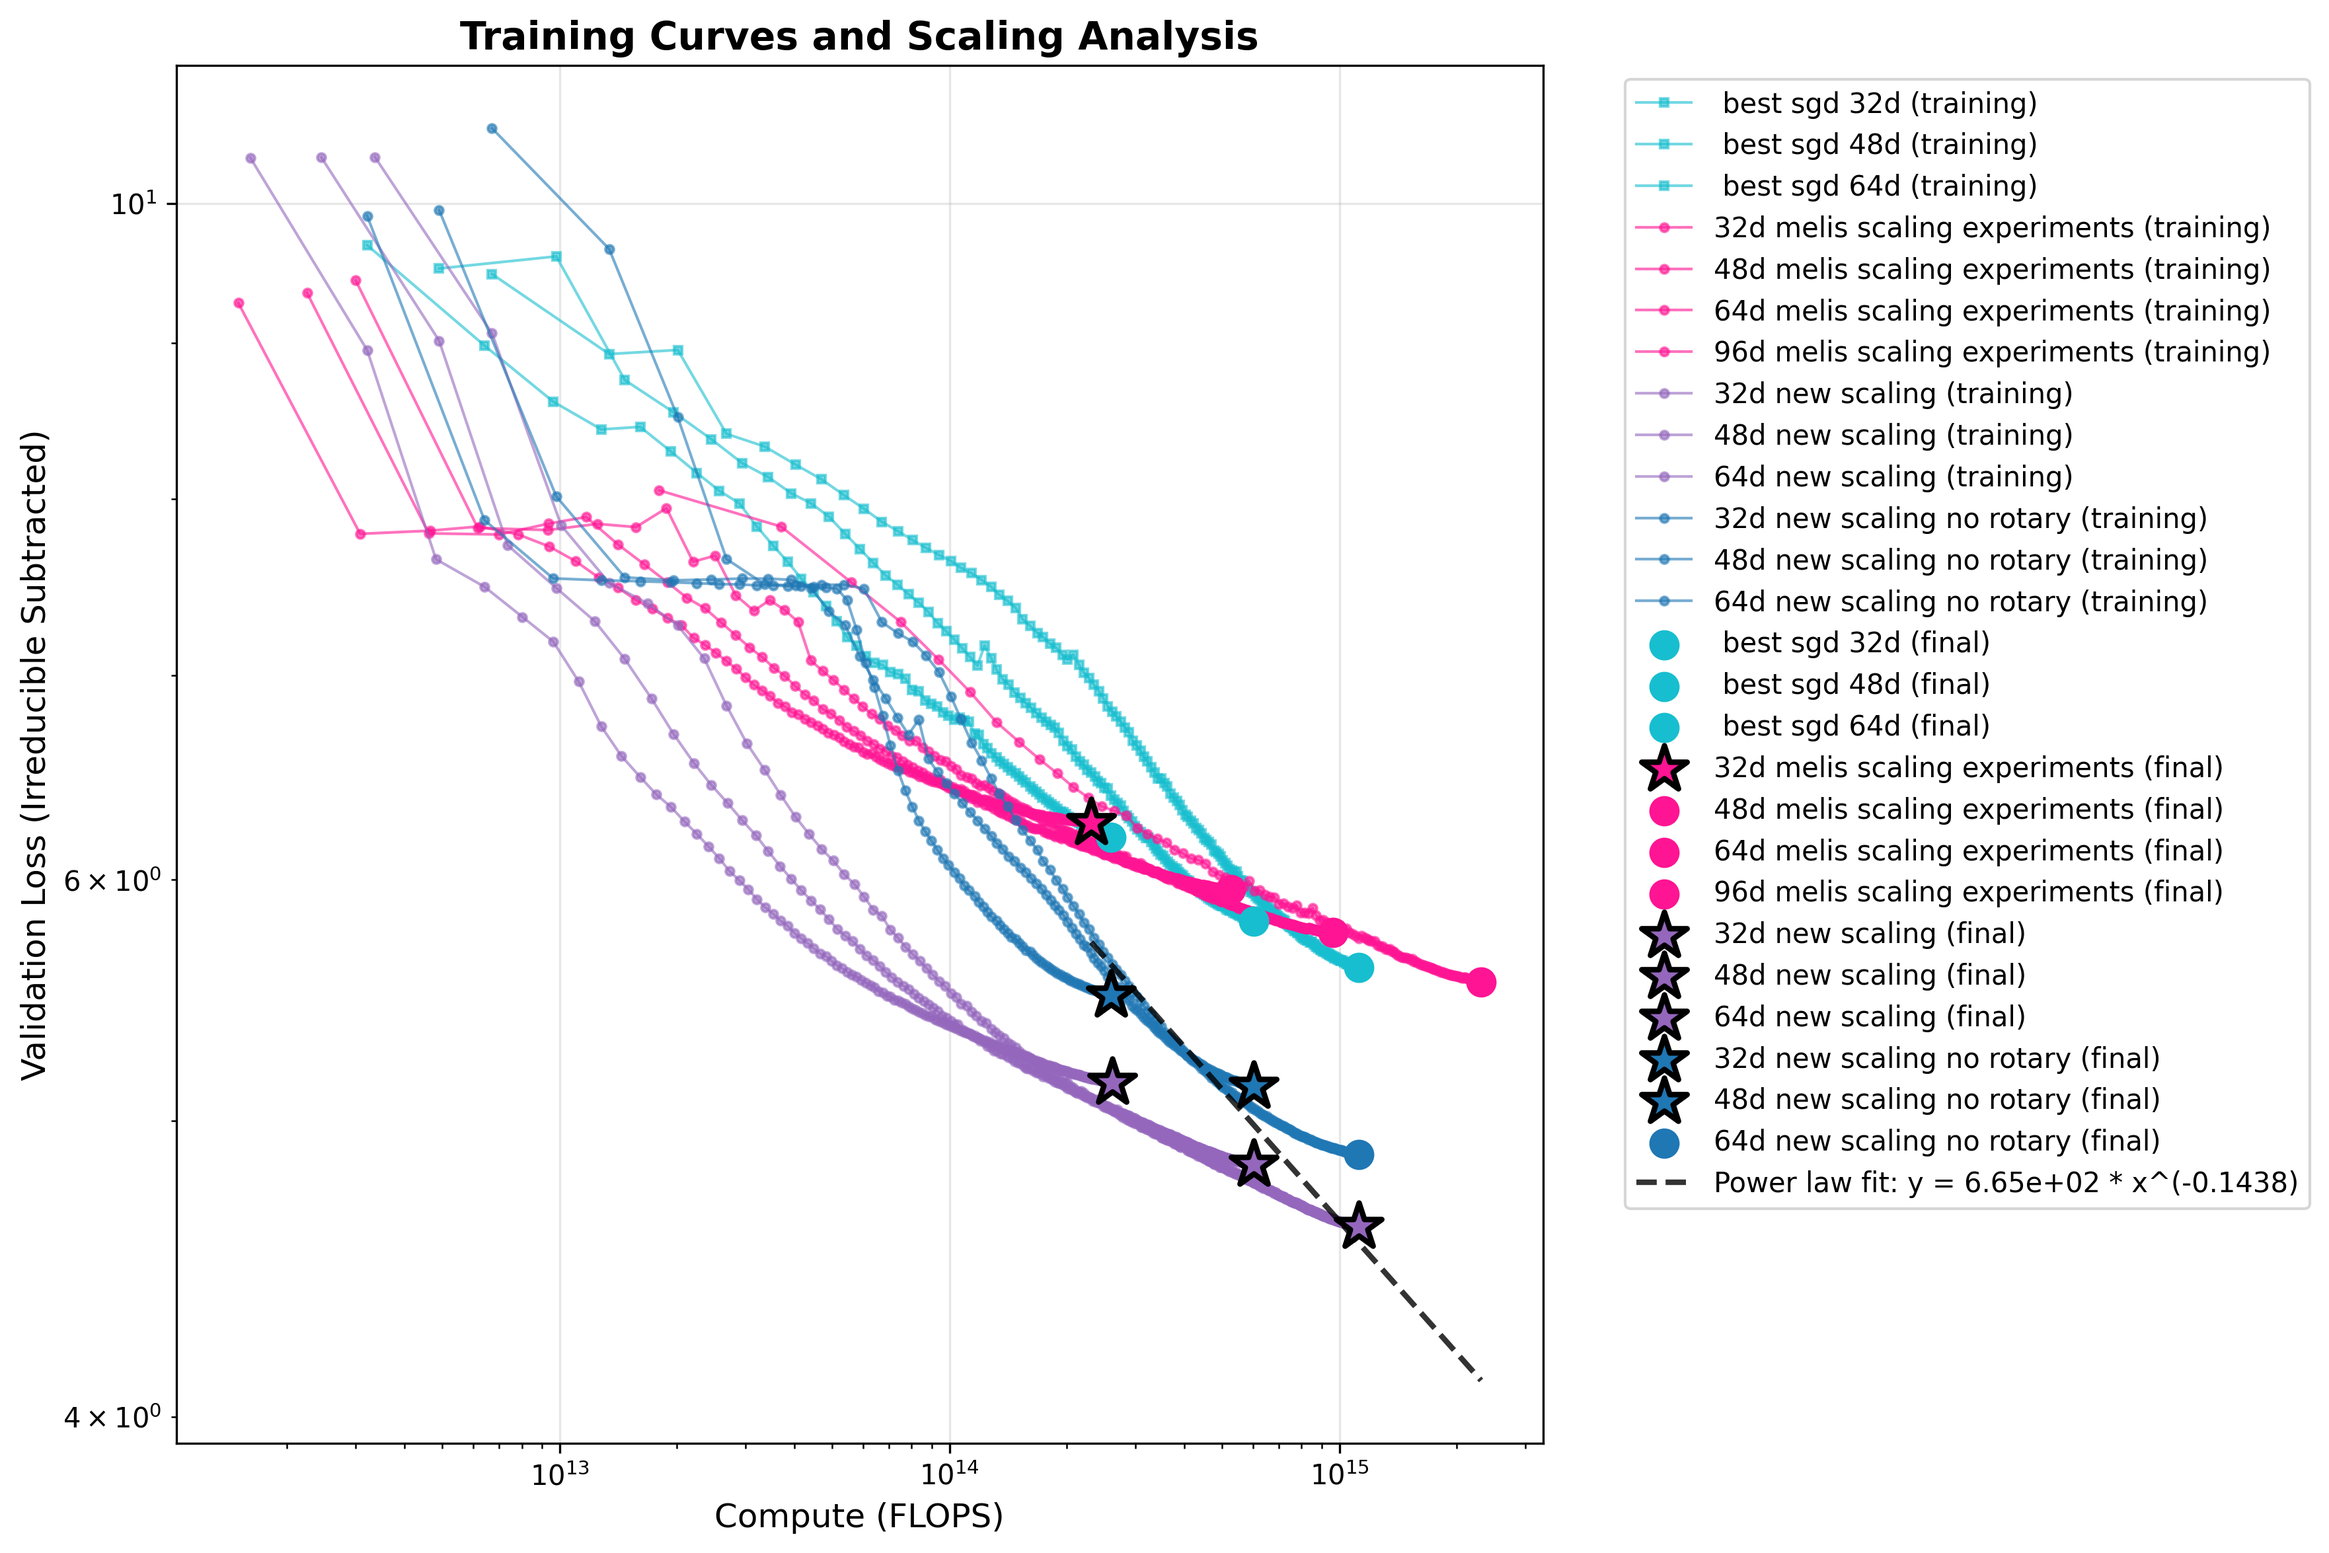
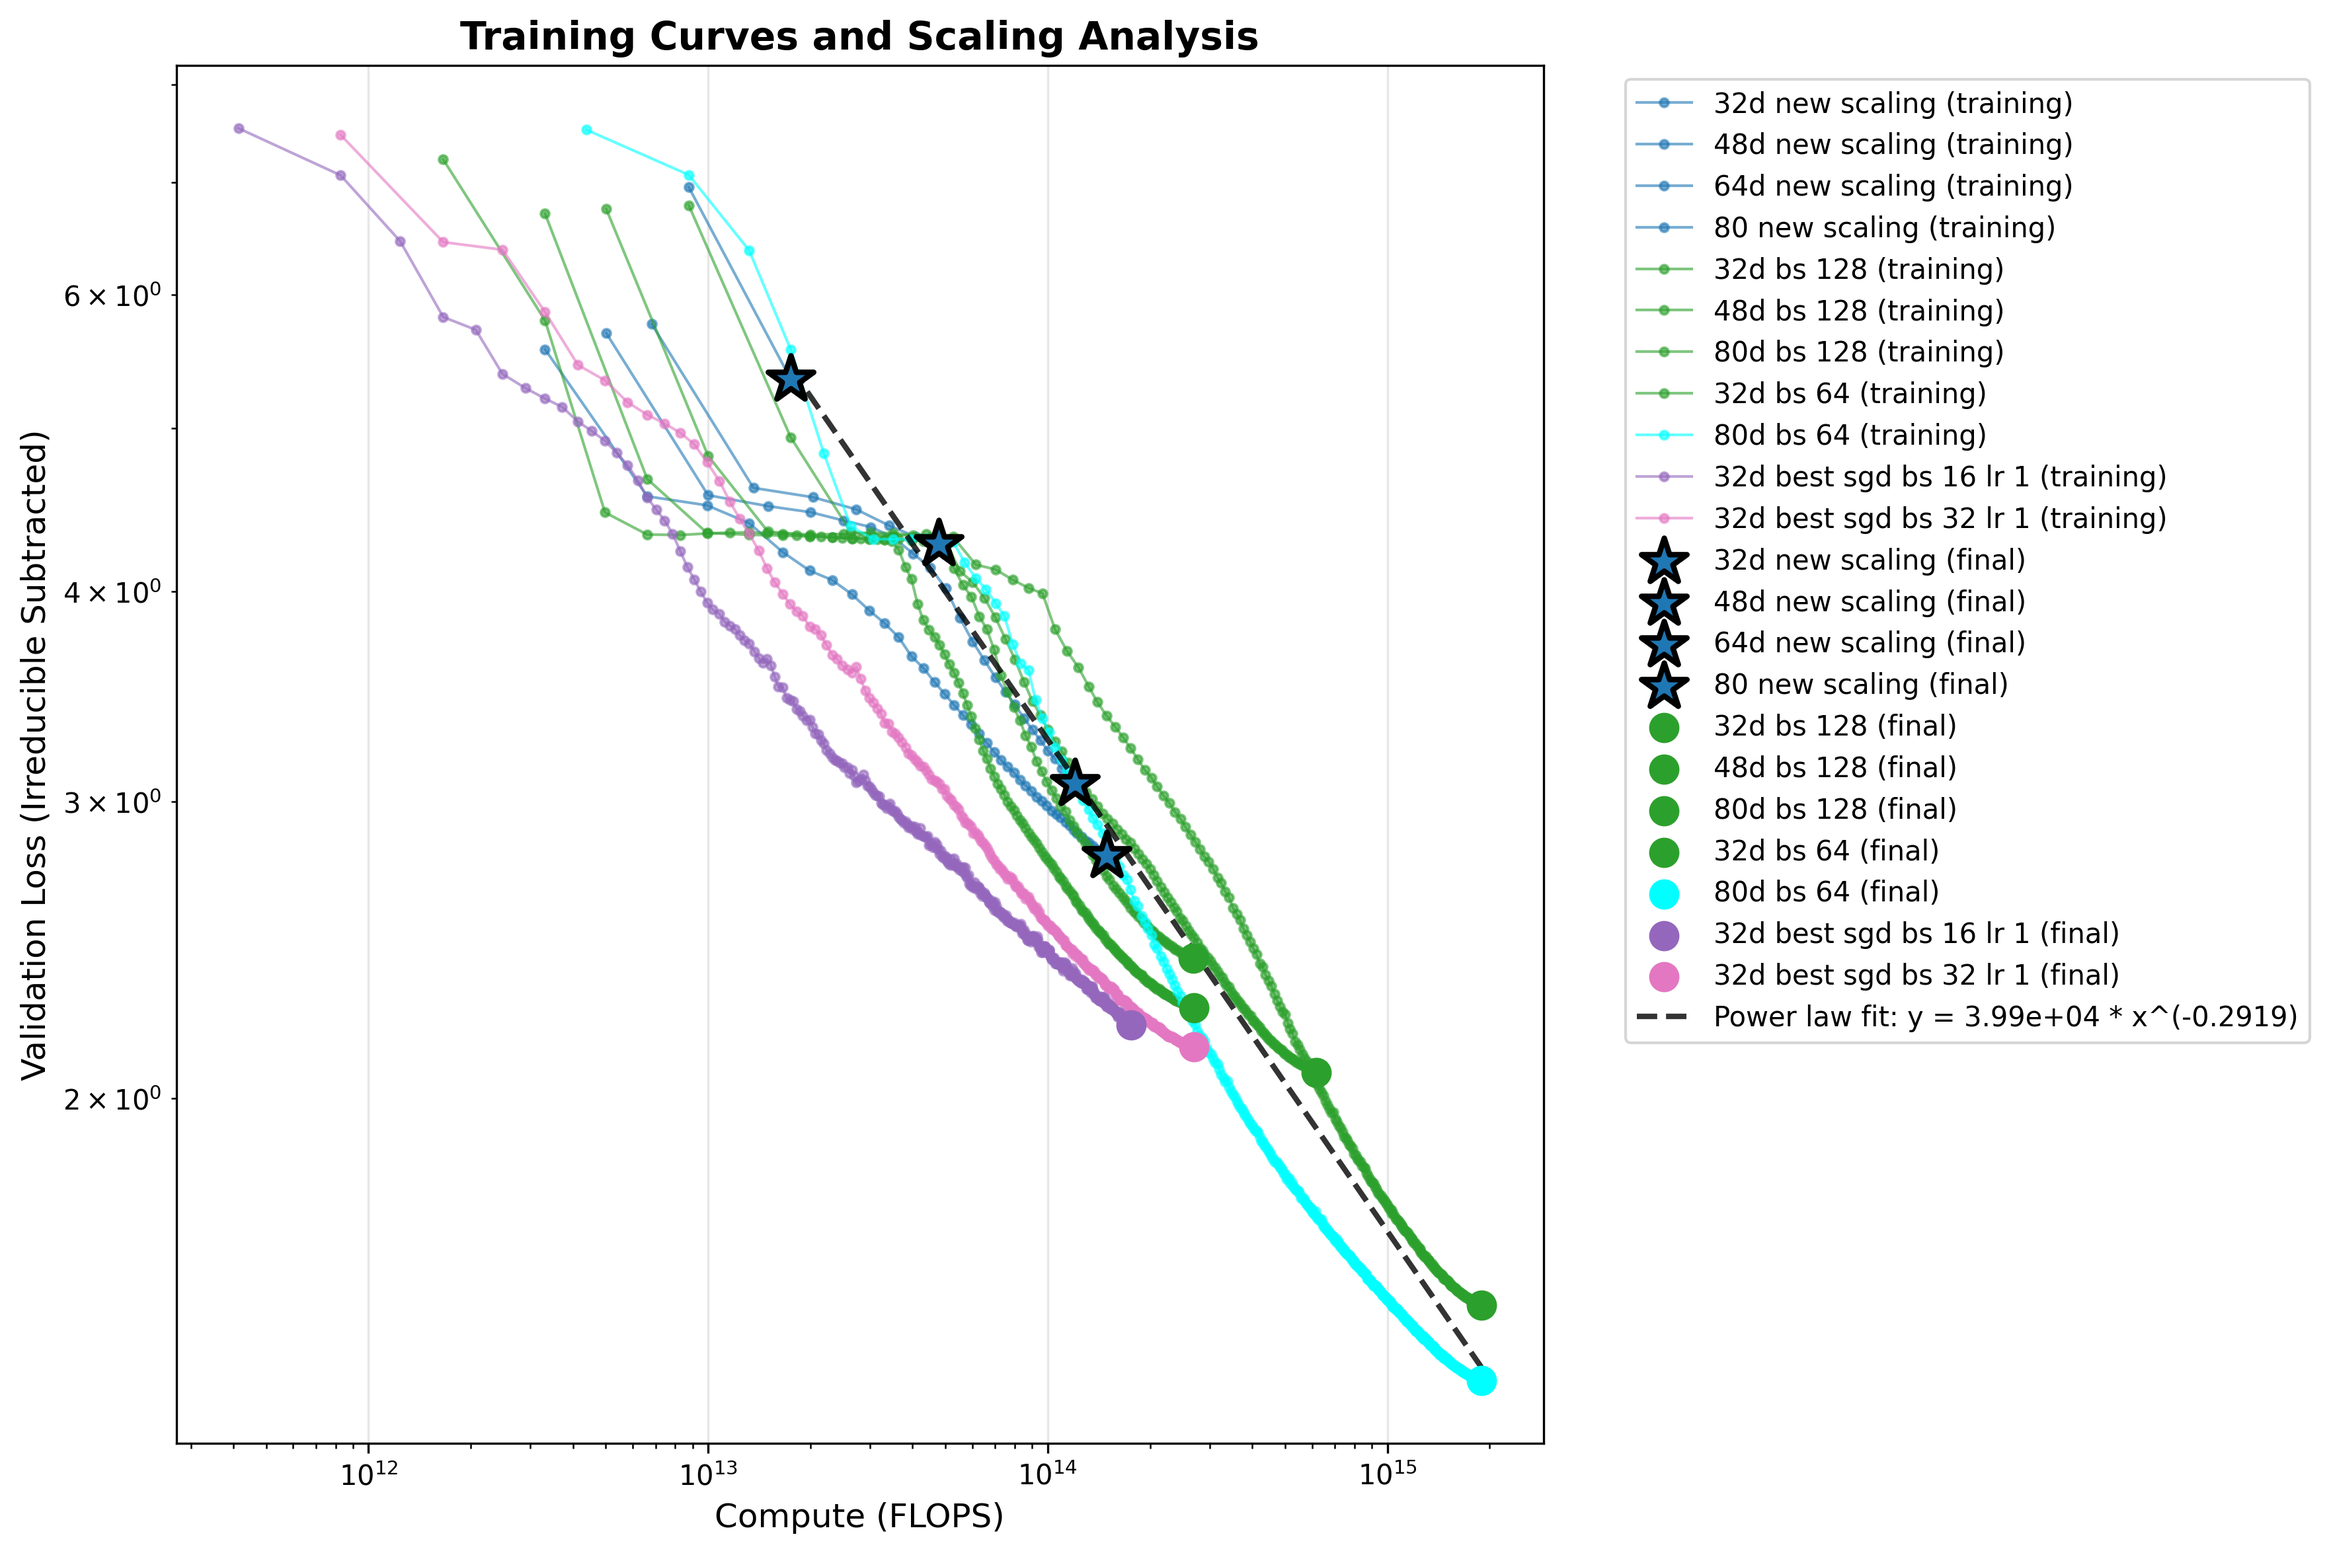
working version seems totatlly fine

diff --git a/LSTM_model/lstm_experiments.py b/LSTM_model/lstm_experiments.py
@@ -99,144 +99,9 @@ CONFIG = get_lstm_base_config()
 # ====================================================================
 
 
-def subset_experiments(experiment_list, wanted_labels):
-    """Return only the sub-experiments whose 'label' is in wanted_labels,
-    keeping each group's original name unchanged."""
-    result = []
-    for exp in experiment_list:
-        picked = [se for se in exp["subexperiments"] if se["label"] in wanted_labels]
-        if picked:
-            # keep exp['name'] exactly as-is
-            result.append(
-                {
-                    "name": exp["name"],
-                    "subexperiments": picked,
-                }
-            )
-    return result
 
 
-# def generate_lr_sweep_experiment(base_label, learning_rates, base_overrides=None):
-#     """
-#     Generate a learning rate sweep experiment based on a base configuration.
 
-#     Args:
-#         base_label: Base label for the experiment (e.g., "lstm_32d_mup")
-#         learning_rates: List of learning rate values to sweep over
-#         base_overrides: Dictionary of base configuration overrides (optional)
-
-#     Returns:
-#         Dictionary containing the experiment with all learning rate variations
-#     """
-#     if base_overrides is None:
-#         base_overrides = {}
-
-#     subexperiments = []
-
-#     for lr in learning_rates:
-#         # Create label with learning rate suffix
-#         # Format learning rate for filename-safe label
-#         if lr >= 1:
-#             lr_str = f"{lr:.0f}"
-#         elif lr >= 0.01:
-#             lr_str = f"{lr:.3f}".rstrip("0").rstrip(".")
-#         else:
-#             # For very small learning rates, use scientific notation
-#             lr_str = f"{lr:.1e}".replace("-", "m").replace("+", "p")
-
-#         label = f"{base_label}_lr_{lr_str}"
-
-#         # Create overrides with the learning rate
-#         overrides = copy.deepcopy(base_overrides)
-#         overrides["learning_rate"] = lr
-
-#         subexperiments.append({"label": label, "overrides": overrides})
-
-#     return {"name": f"{base_label}_lr_sweep", "subexperiments": subexperiments}
-
-
-# ====================================================================
-# LEARNING RATE SWEEP DEFINITIONS
-# ====================================================================
-
-# Define standard learning rate sweeps
-STANDARD_LR_SWEEP = [1e-4, 10 ** (-3.5), 1e-3, 10 ** (-2.5), 1e-2, 10 ** (-1.5), 1e-1]
-NARROW_LR_SWEEP = [
-    10 ** (-3),
-    10 ** (-2.5),
-    10 ** (-2),
-    10 ** (-1.5),
-    1e-1,
-]  # Focused sweep around promising values
-
-# ====================================================================
-# DEFAULT EXPERIMENT SELECTION
-# ====================================================================
-
-
-# LSTM 16d mup lr tune
-# LSTM sgd mup lr tune
-# LSTM scaling experiment mup
-# LSTM scaling experiment mup sgd
-
-
-# LSTM mup large
-# LSTM sgd mup large
-# LSTM 16d standard lr tune
-# LSTM lr tune across scale
-# LSTM scaling experiment standard
-# LSTM scaling experiment mup
-# LSTM sgd mup lr tune
-# LSTM sgd standard scaling
-
-
-# Default experiment selection - can be overridden below
-# EXPERIMENTS = create_multi_lr_experiments(LSTM_SGD_OPTIMAL_SCALING, NARROW_LR_SWEEP)
-
-# LSTM 16d mup lr tune
-# lstm_16_mup = subset_experiments(LSTM_MUP_SCALING_EXPERIMENTS, ["lstm_16d_mup"])
-# lstm_16_mup_lr_tune_exper = create_multi_lr_experiments(lstm_16_mup, NARROW_LR_SWEEP)
-
-# lstm_16_mup_sgd = subset_experiments(LSTM_SGD_MUP_SCALING, ["lstm_16d_sgd_mup"])
-# lstm_16_mup_lr_tune_sgd_exper = create_multi_lr_experiments(
-#     lstm_16_mup_sgd, NARROW_LR_SWEEP
-# )
-# # scaling experiment mup lstm
-# LSTM_MUP_SCALING_EXPERIMENTS
-# # scaling experiment mup sgd lstm
-# LSTM_SGD_MUP_SCALING
-
-# # just lr tune
-# just_lr_tune = lstm_16_mup_lr_tune_exper + lstm_16_mup_lr_tune_sgd_exper
-
-# # Full Minimal Set
-# combined_minimal_experiments = (
-#     lstm_16_mup_lr_tune_exper
-#     + lstm_16_mup_lr_tune_sgd_exper
-#     + LSTM_MUP_SCALING_EXPERIMENTS
-#     + LSTM_SGD_MUP_SCALING
-# )
-
-# # Non essential expeiments
-# # ====================================================================
-# lstm_16 = subset_experiments(LSTM_OPTIMAL_SCALING, ["lstm_16d"])
-# lstm_16_lr_tune = create_multi_lr_experiments(lstm_16, NARROW_LR_SWEEP)
-# # ot
-# lstm_16_sgd = subset_experiments(LSTM_SGD_OPTIMAL_SCALING, ["lstm_16d_sgd"])
-# lstm_16_sgd_lr_tune = create_multi_lr_experiments(lstm_16_sgd, NARROW_LR_SWEEP)
-# # LR tune at all scales
-# lstm_lr_at_all_scales = create_multi_lr_experiments(
-#     LSTM_OPTIMAL_SCALING, NARROW_LR_SWEEP
-# )
-# lstm_sgd_lr_at_all_scales = create_multi_lr_experiments(
-#     LSTM_SGD_OPTIMAL_SCALING, NARROW_LR_SWEEP
-# )
-
-
-# scaling experiments optimal lstm  do these afterwards
-# LSTM_OPTIMAL_SCALING,
-# # scaling experiments optimal
-# LSTM_SGD_OPTIMAL_SCALING
 
 EXPERIMENTS = GRAND_EXPERIMENT
 

diff --git a/LSTM_model/lstm_experiment_utils.py b/LSTM_model/lstm_experiment_utils.py
@@ -331,7 +331,7 @@ def get_lstm_base_config():
         "learning_rate": 0.001 * math.sqrt(4),  # Scale by sqrt of accumulation steps
         "lr_schedule": "cosine_warmup",
         "warmup_frac": 0.05,  # 5% warmup steps
-        "min_lr_multiplier": 0.1,  # Min LR as 10% of base LR  
+        "min_lr_multiplier": 0.1,  # Min LR as 10% of base LR
         "min_lr": 0.0,  # Absolute minimum learning rate (alternative to min_lr_multiplier)
         # "scheduler_type": "step",
         "step_size": 10,
@@ -503,6 +503,23 @@ def create_multi_lr_lstm_experiments(base_experiments, learning_rates):
         multi_lr_experiments.append(new_experiment)
 
     return multi_lr_experiments
+
+
+def subset_experiments(experiment_list, wanted_labels):
+    """Return only the sub-experiments whose 'label' is in wanted_labels,
+    keeping each group's original name unchanged."""
+    result = []
+    for exp in experiment_list:
+        picked = [se for se in exp["subexperiments"] if se["label"] in wanted_labels]
+        if picked:
+            # keep exp['name'] exactly as-is
+            result.append(
+                {
+                    "name": exp["name"],
+                    "subexperiments": picked,
+                }
+            )
+    return result
 
 
 def create_multi_lr_experiments(base_experiments, learning_rates):

diff --git a/experiment_definitions.py b/experiment_definitions.py
@@ -103,6 +103,43 @@ SGD_SCALING = (
         target_effective_batch_size=32,
     )
 )
+LARGE_SCALE_EXPERIMENTS = (
+    gen_experim(
+        128,
+        label="80d_best_sgdbs64",
+        folder_name="best_possible_sgd",
+        learning_rate=1e-1,
+        optimizer="sgd",
+        sgd_momentum=0.98,
+        weight_decay=0.0,
+        target_effective_batch_size=64,
+    )
+    + gen_experim(
+        256,
+        label="256d_best_sgdbs64",
+        folder_name="best_possible_sgd",
+        learning_rate=1e-1,
+        optimizer="sgd",
+        sgd_momentum=0.98,
+        weight_decay=0.0,
+        target_effective_batch_size=64,
+    )
+    # sinusoidal experiments
+    + gen_experim(
+        128,
+        label="128d_sinbs128",
+        folder_name="sin_scaling",
+        learning_rate=1e-1,
+        target_effective_batch_size=128,
+    )
+    + gen_experim(
+        256,
+        label="256d_sinbs128",
+        folder_name="sin_scaling",
+        learning_rate=1e-1,
+        target_effective_batch_size=128,
+    )
+)
 
 
 SGD_SCALING_LARGE_BATCH = (
@@ -346,7 +383,7 @@ BATCH_SIZE_TEST = (
     )
 )
 
-GRAND_EXPERIMENT = NEW_SCALING
+GRAND_EXPERIMENT = create_multi_lr_experiments(LARGE_SCALE_EXPERIMENTS, NARROW_LR_SWEEP)
 
 # GRAND_EXPERIMENT = create_multi_lr_experiments(
 #     NEW_SCALING, NARROW_LR_SWEEP

diff --git a/experimental_analysis/debug_scaling_rotary.py b/experimental_analysis/debug_scaling_rotary.py
@@ -582,6 +582,35 @@ if __name__ == "__main__":
             "color": "cyan",
             "hidden_dim": 80,
         },
+
+        #batch size variation sgd
+        # 32d_best_sgd_bs16_lr1
+        {
+            "name": "32d best sgd bs 16 lr 1",
+            "csv_path": "../experimental_data_folder/sgd_scaling/32d_best_sgd_bs16_lr1.csv",
+            "marker": "o",
+            "include_in_frontier": False,  # Include in frontier analysis
+            "class": "lstm",
+            "color": "tab:purple",
+            "hidden_dim": 32,
+        },
+        # 32d_best_sgd_bs32_lr1
+        {
+            "name": "32d best sgd bs 32 lr 1",
+            "csv_path": "../experimental_data_folder/sgd_scaling/32d_best_sgd_bs32_lr1.csv",
+            "marker": "o",
+            "include_in_frontier": False,  # Include in frontier analysis
+            "class": "lstm",
+            "color": "tab:pink",
+            "hidden_dim": 32,
+        },
+
+
+
+
+
+
+
         # transformer scaling diagnostic
         # {
         #     "name": "64d sin more heads",

diff --git a/experimental_analysis/debug_scaling_master.py b/experimental_analysis/debug_scaling_master.py
@@ -588,6 +588,7 @@ if __name__ == "__main__":
             "class": "transformer_no_rotary",
             "hidden_dim": 64,
         },
+        
     ]
 
     # Add experiments

diff --git a/LSTM_model/lstm_experiment_definitions.py b/LSTM_model/lstm_experiment_definitions.py
@@ -310,7 +310,7 @@ SGD_TUNE_LR_SWEEP = [
     10 ** (-2),
     10 ** (-1.5),
     1e-1,
-    1,
+    10 ** (-0.5),
 ]
 
 MELIS_SCALING_SGD = (
